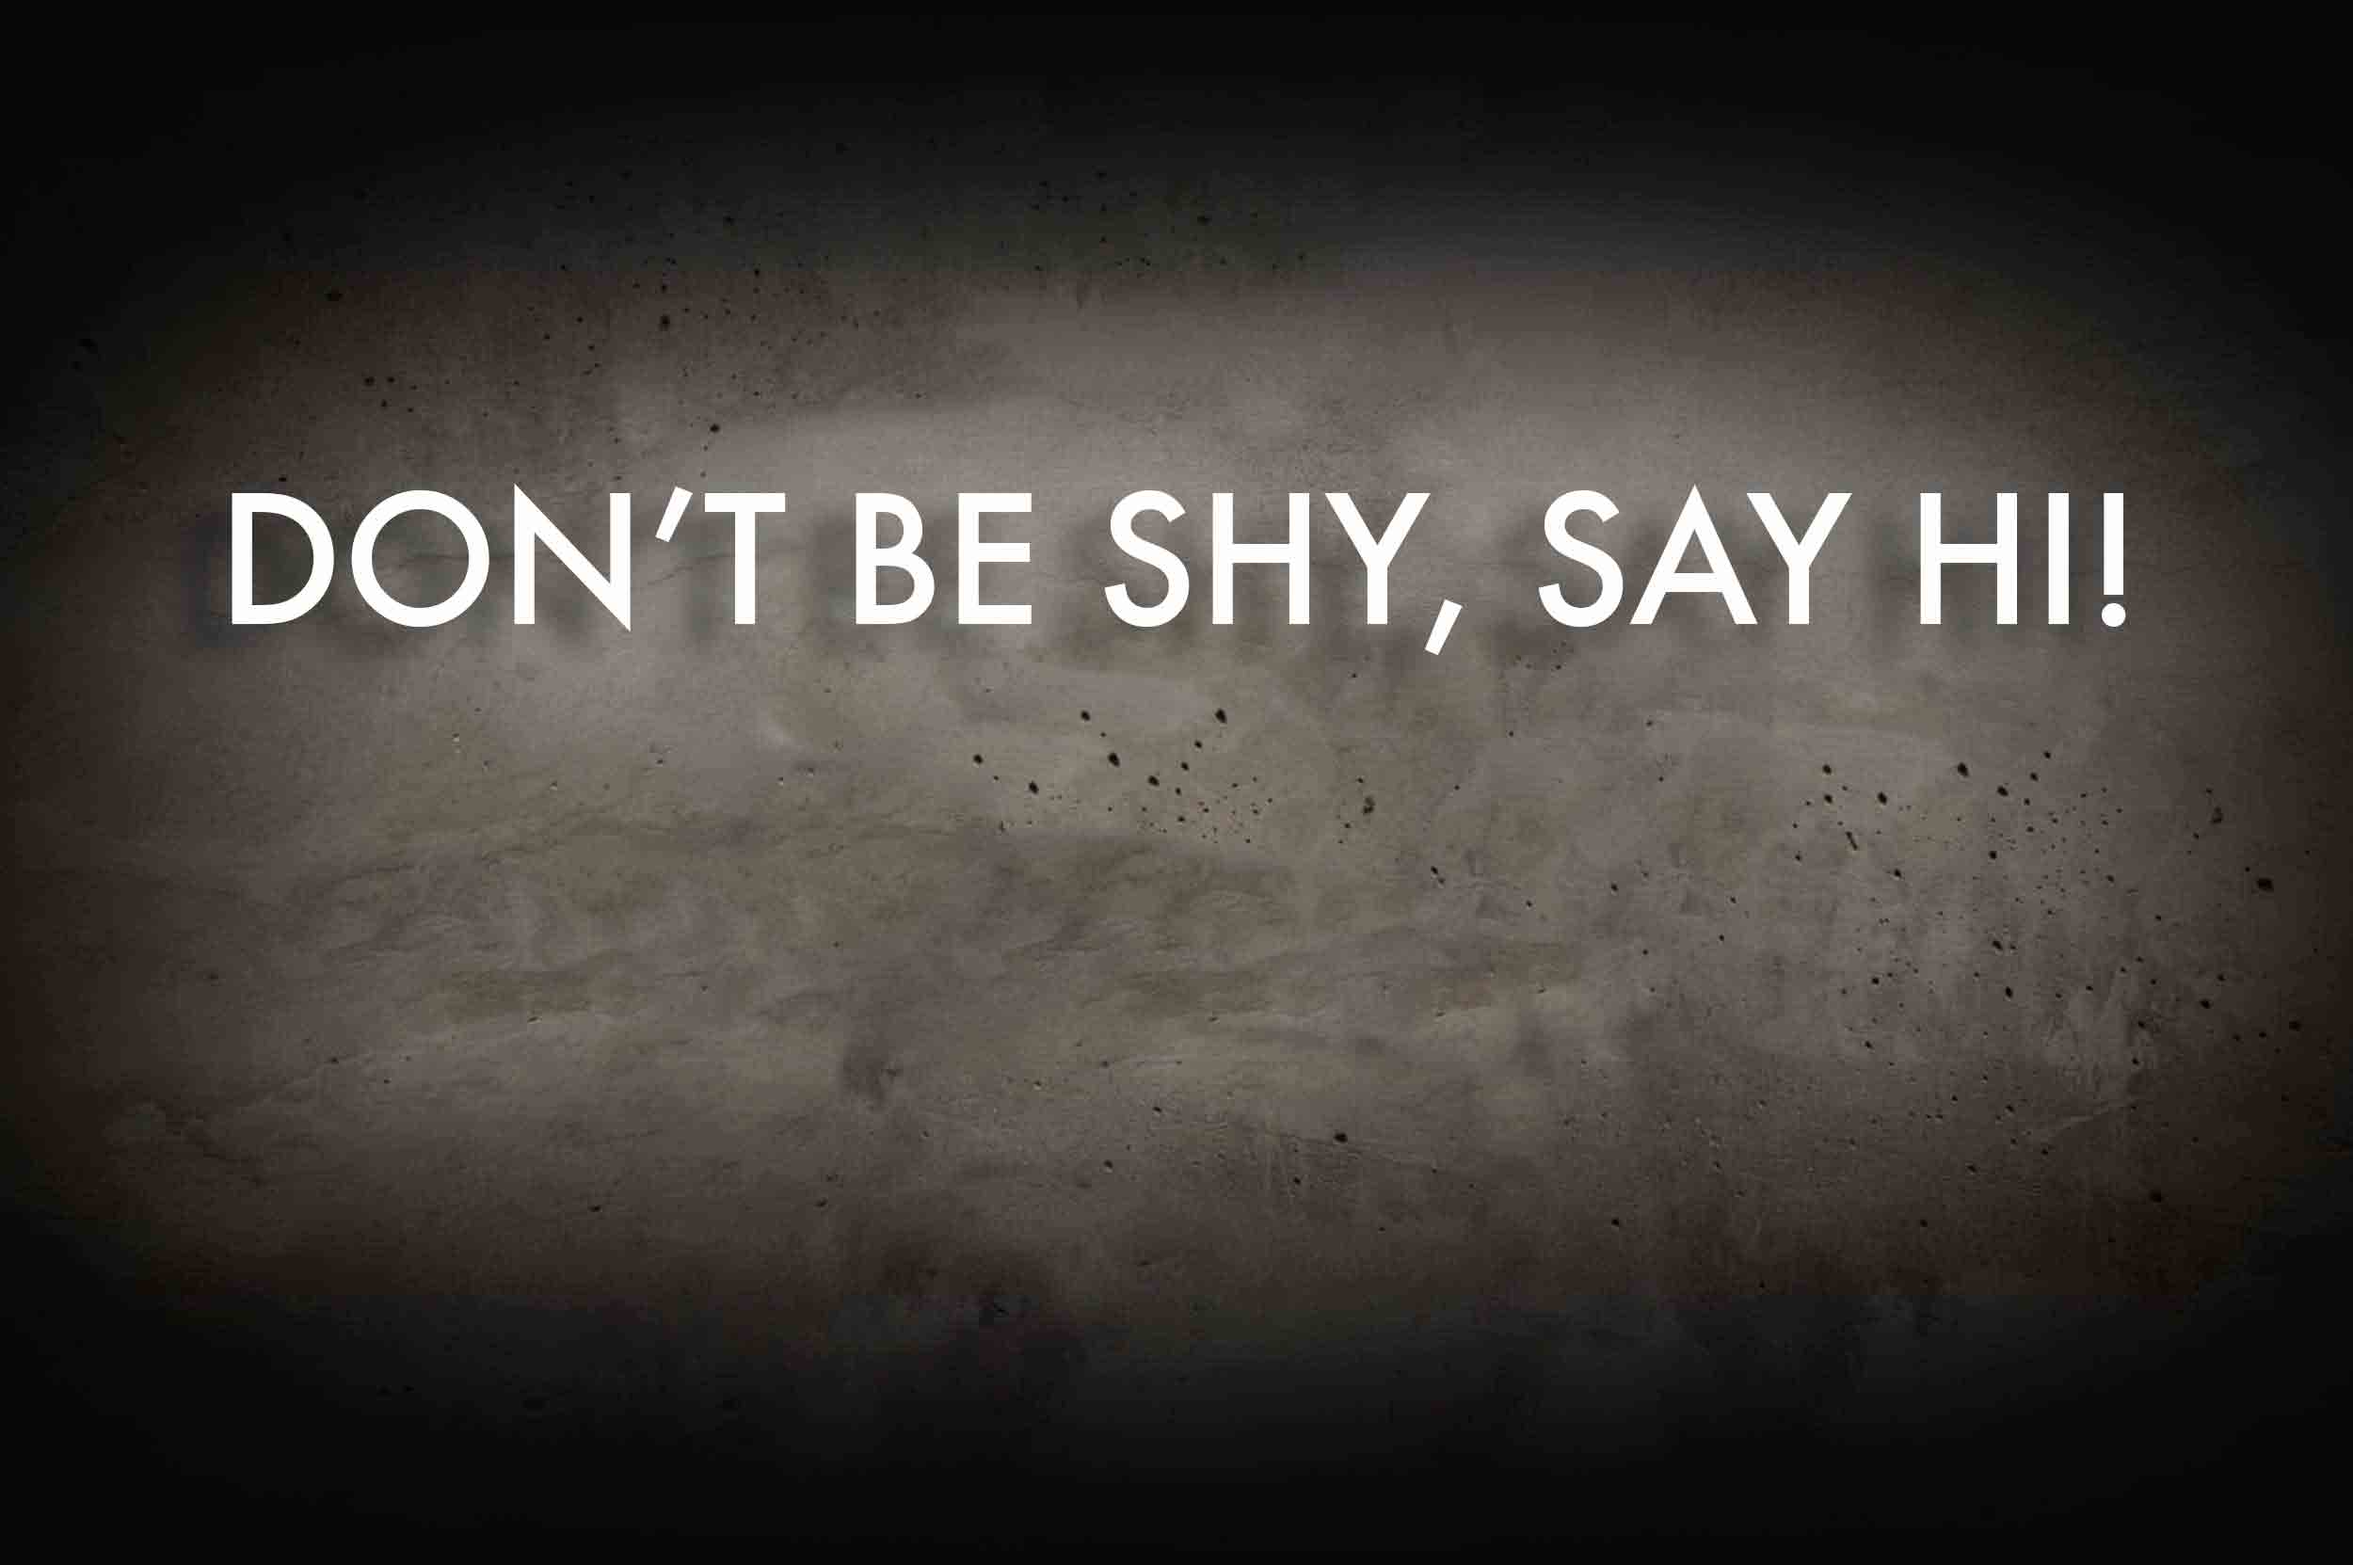
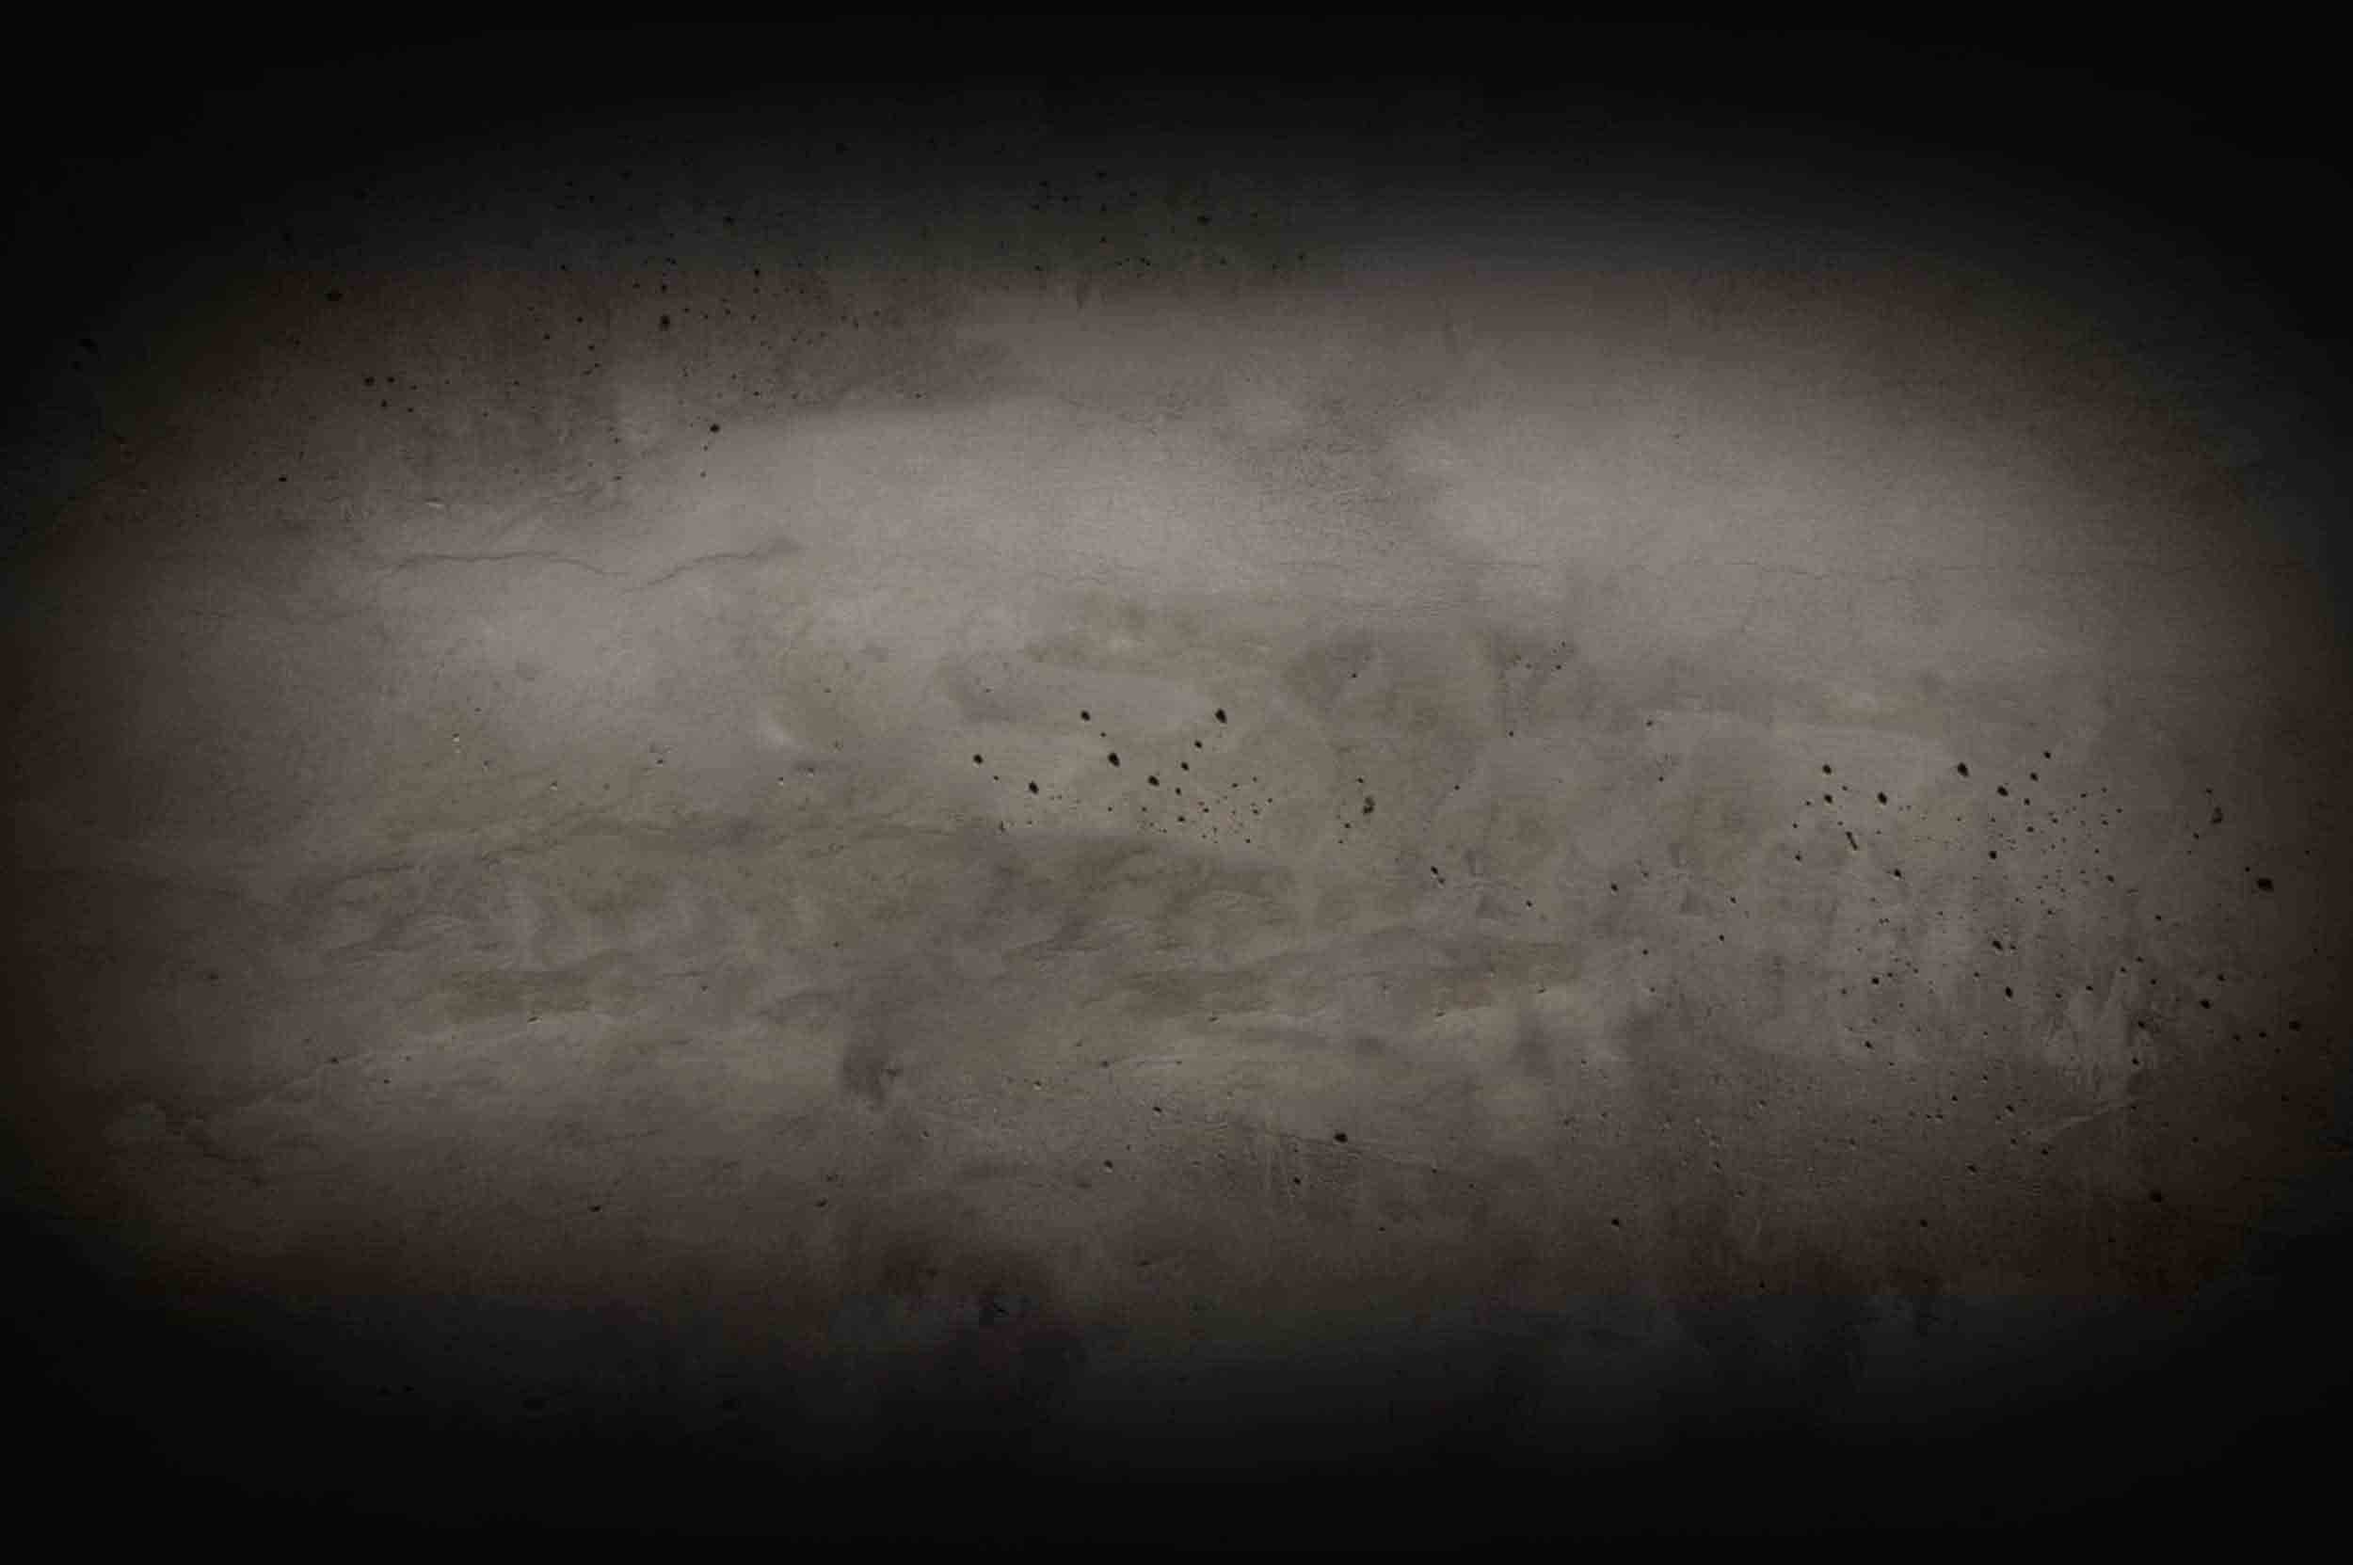
lettermark

Changed region(s): [[0.0936, 0.3067, 0.624, 0.4293], [0.624, 0.3067, 0.9048, 0.4293]]

diff --git a/index.html b/index.html
@@ -64,7 +64,8 @@ As I’m sure you know by now my name is Brendan Wilson, but what you don’t kn
                 
                 <div class="lightbox-2" id="about-check-2">
                     <div class="lightbox-container-2">
-                        <label class="about-label-2 close-lightbox-2" for="about-check-2"><img src="images/close-c.svg" alt="Close Navigation" class="lightbox-img"></label>  
+                        <label class="about-label-2 close-lightbox-2" for="about-check-2"><img src="images/close-c.svg" alt="Close Navigation" class="lightbox-img"></label> 
+                        <h2 class="hello">Don't be shy, say hi!</h2>
                         
                         <div class="contact grid" id="contact"> 
                 <p class="pad-t copy-c brand-family-blue kilo gutter-1-2 unit unit-xs-1 unit-s-1-2 unit-m-1-2 unit-l-1-2">©&nbsp;2015&nbsp;Brendan&nbsp;Wilson&nbsp;</p>
@@ -82,7 +83,6 @@ As I’m sure you know by now my name is Brendan Wilson, but what you don’t kn
         
 		<div class="parallax-group" role="banner">
 			<div class="back"></div>
-			<div class="lettermark"><img src="images/lettermark.svg" alt="Brendan WIlson Lettermark"></div>
 		</div>
         
 		<main id="main" role="main">

diff --git a/_includes/css/main.css b/_includes/css/main.css
@@ -204,15 +204,14 @@ img {
     background-repeat: no-repeat;
     background-position: center;
 	
-}*/
-
 .lettermark {
 	position: absolute;
 	width: 8em;
 	z-index: 3000;
     top: 5.7em;
- 
 }
+
+}*/
 
 h2 {
 	margin: 0;
@@ -230,7 +229,7 @@ h2 {
     top: 0;
     bottom: 0;
     background-color: rgba(0, 0, 0, 0.5);
-    z-index: 2000;
+    z-index: 4000;
     width: 0;
 }
 
@@ -277,6 +276,18 @@ h2 {
 	top: 3em;
 }
 
+.hello {
+    color: #fff;
+    font-size: 2em;
+    margin-top: 6em;
+
+    -webkit-filter: drop-shadow(-10px 10px 6px rgba(0,0,0,.3));
+    -moz-filter: drop-shadow(-10px 10px 6px rgba(0,0,0,.3));
+    -ms-filter: drop-shadow(-10px 10px 6px rgba(0,0,0,.3));
+    -o-filter: drop-shadow(-10px 10px 6px rgba(0,0,0,.3));
+    filter: drop-shadow(-10px 10px 6px rgba(0,0,0,.3));
+}
+
 .about {
     background-color: #fff;
     background-size: 100%;
@@ -306,7 +317,7 @@ h2 {
     top: 0;
     bottom: 0;
     background-color: rgba(0, 0, 0, 0.5);
-    z-index: 2000;
+    z-index: 4000;
     width: 0;
     overflow: hidden;
 }
@@ -812,6 +823,11 @@ h2 {
 
 
 @media only screen and (min-width: 38em) {
+    
+.hello {
+    font-size: 4em;
+    margin-top: 3em;
+}
     
 .embed-item {
     width: 100%;
